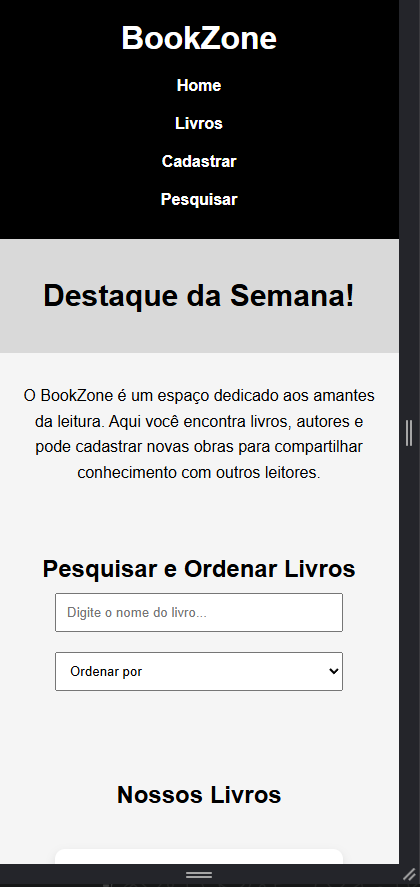
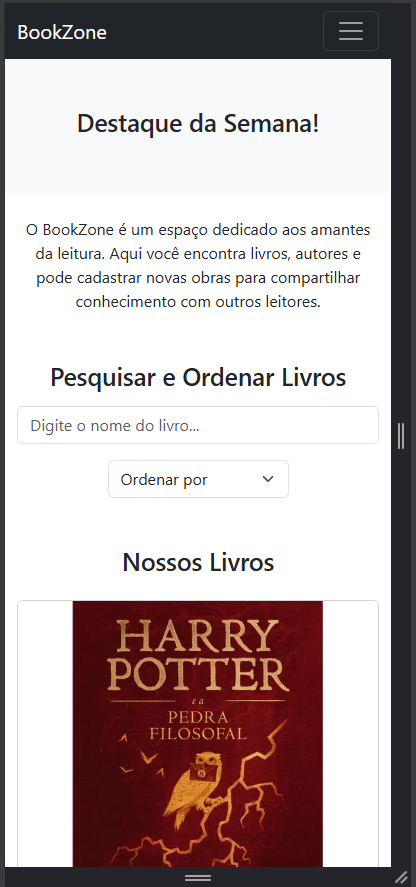
Documentação final do projeto com README e prints

diff --git a/README.md b/README.md
@@ -1,25 +1,47 @@
 # Trabalho Prático - Semana 6
 
-Nessa atividade, como sempre, vamos evoluir o que foi feito na semana anterior. Fique atento para fazer o projeto da semana anterior e dar sequência nessa jornada.
+## 📌 Informações Gerais
 
-No trabalho dessa semana vamos alterar o projeto para que a responsividade da home-page seja feita, agora, com o framework Bootstrap.
+- **Nome:** Felipe Gabriel Nogueira Aquino  
+- **Matrícula:** 923614  
+- **Proposta de projeto:** BookZone (site de livros)  
+- **Descrição:**  
+O BookZone é um site voltado para leitores, onde é possível visualizar livros, conhecer autores e cadastrar novas obras.  
+Nesta versão, o projeto foi refatorado utilizando o framework Bootstrap para garantir responsividade em diferentes dispositivos.
 
-**IMPORTANTE 1:** Você deve alterar apenas os arquivos **`README.md`**, **`index.html`** e **`styles.css`**, podendo incluir outros arquivos como imagens na pasta **`images`**, caso necessário. Deixe todos os demais arquivos e pastas desse repositório inalterados. **PRESTE MUITA ATENÇÃO NISSO.**
+---
 
-## Informações Gerais
+## 💻 Tecnologias Utilizadas
 
-- Nome:
-- Matricula:
-- Proposta de projeto escolhida:
-- Breve descrição sobre seu projeto:
+- HTML5  
+- CSS3  
+- Bootstrap 5  
+- Git e GitHub  
 
-## Print da versão responsiva com Bootstrap [DESKTOP]
+---
 
-<<  COLOQUE A IMAGEM AQUI >>
+## 📱 Responsividade
 
-## Print da versão responsiva com Bootstrap [MOBILE] (*)
+O site foi desenvolvido utilizando o sistema de grid do Bootstrap, permitindo:
 
-<<  COLOQUE A IMAGEM AQUI >>
+- Layout em **3 colunas no desktop**
+- Layout em **1 coluna no mobile**
+- Navbar responsiva com menu colapsável
 
+---
 
-(*) Utilize as ferramentas do desenvolvedor do seu navegador para colocar no modo reponsivo, escolha um celular qualquer e recarregue a página antes de tirar o print. 
+## 🖥 Versão Desktop
+
+![Desktop](desktop.png)
+
+---
+
+## 📲 Versão Mobile
+
+![Mobile](mobile.png)
+
+---
+
+## 📌 Observações
+
+Este projeto faz parte das atividades práticas da disciplina de desenvolvimento web, com foco em responsividade e uso de frameworks modernos.
